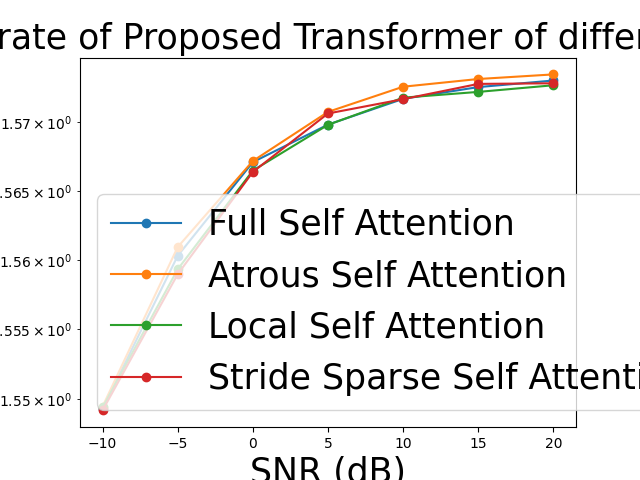
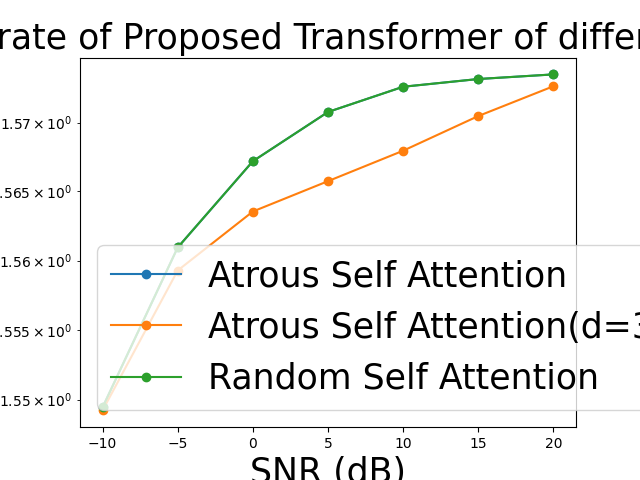
message

diff --git a/SPR-CNN/result-modality-aware-atrous-self-attention.py b/SPR-CNN/result-modality-aware-atrous-self-attention.py
@@ -1,0 +1,100 @@
+import matplotlib.pyplot as plt
+import math
+
+fontsize = 25
+
+####################################################################################################################
+
+# data
+x = [-10, -5, 0, 5, 10, 15, 20]
+
+# Transformers(Encoder * 2 + Decoder * 2, (16 * 32 * 4)), epochs = 200, lr = 0.0001, batch_size = 32
+# 自己寫的 multi-head self attention, atrous_self_attention,
+# encoder ff layer 用 Conv1D, decoder ff layer 用 ffn
+# modality-aware transformers
+y2 = [0.03944879397749901, 0.026776893064379692, 0.01985848695039749, 0.015884367749094963, 0.013839473016560078, 0.013212382793426514, 0.012837452813982964]
+
+# Transformers(Encoder * 2 + Decoder * 2, (16 * 32 * 4)), epochs = 200, lr = 0.0001, batch_size = 32
+# 自己寫的 multi-head self attention, atrous_self_attention, d = 3
+# encoder ff layer 用 Conv1D, decoder ff layer 用 ffn
+# modality-aware transformers
+y5 = [0.03968484327197075, 0.028611933812499046, 0.023897996172308922, 0.02146201953291893, 0.019011519849300385, 0.016211938112974167, 0.01379705686122179]
+
+# Transformers(Encoder * 2 + Decoder * 2, (16 * 32 * 4)), epochs = 200, lr = 0.0001, batch_size = 32
+# 自己寫的 multi-head self attention, random_self_attention
+# encoder ff layer 用 Conv1D, decoder ff layer 用 ffn
+# modality-aware transformers
+y6 = [0.03952145203948021, 0.028553225100040436, 0.02063240297138691, 0.01693073660135269, 0.014729450456798077, 0.014260709285736084, 0.013719967566430569]
+
+# draw
+plt.plot(x, y2, marker='o', label='Atrous Self Attention(d=2)')
+plt.plot(x, y5, marker='o', label='Atrous Self Attention(d=3)')
+plt.plot(x, y6, marker='o', label='Random Self Attention')
+
+
+# set y-axis to log scale
+plt.yscale('log')
+
+# add title and axis labels
+plt.title('Comparison of NMSE of Proposed Transformer of different Sparse Attention', fontsize=fontsize)
+plt.xlabel('SNR (dB)', fontsize=fontsize)
+plt.ylabel('NMSE (log scale)', fontsize=fontsize)
+
+# add legend
+plt.legend(fontsize=fontsize)
+
+# save the plot
+plt.savefig('Comparison of NMSE of Proposed Transformer of different Sparse Attention')
+
+# display the plot
+plt.grid(True)
+plt.show()
+####################################################################################################################
+
+# data
+x = [-10, -5, 0, 5, 10, 15, 20]
+
+# Transformers(Encoder * 2 + Decoder * 2, (16 * 32 * 4)), epochs = 200, lr = 0.0001, batch_size = 32
+# 自己寫的 multi-head self attention, atrous_self_attention,
+# encoder ff layer 用 Conv1D, decoder ff layer 用 ffn
+# modality-aware transformers
+y2 = [15.494442592010083, 15.609491910438882, 15.671919573771865, 15.707657914006779, 15.726012765282944, 15.731636832092104, 15.734998353604407]
+
+# Transformers(Encoder * 2 + Decoder * 2, (16 * 32 * 4)), epochs = 200, lr = 0.0001, batch_size = 32
+# 自己寫的 multi-head self attention, atrous_self_attention, d = 3
+# encoder ff layer 用 Conv1D, decoder ff layer 用 ffn
+# modality-aware transformers
+y5 = [15.49229083432177, 15.592888048108476, 15.635502141705988, 15.65747419928054, 15.679543601852913, 15.704715510298538, 15.726393267161576]
+
+# Transformers(Encoder * 2 + Decoder * 2, (16 * 32 * 4)), epochs = 200, lr = 0.0001, batch_size = 32
+# 自己寫的 multi-head self attention, random_self_attention
+# encoder ff layer 用 Conv1D, decoder ff layer 用 ffn
+# modality-aware transformers
+y6 = [15.494442592010083, 15.609491910438882, 15.671919573771865, 15.707657914006779, 15.726012765282944, 15.731636832092104, 15.734998353604407]
+
+y2 = [value / 10 for value in y2]
+y5 = [value / 10 for value in y5]
+y6 = [value / 10 for value in y6]
+
+# draw
+plt.plot(x, y2, marker='o', label='Atrous Self Attention')
+plt.plot(x, y5, marker='o', label='Atrous Self Attention(d=3)')
+plt.plot(x, y6, marker='o', label='Random Self Attention')
+
+# set y-axis to log scale
+plt.yscale('log')
+
+# add title and axis labels
+plt.title('Comparison of sum rate of Proposed Transformer of different Sparse Attention', fontsize=fontsize)
+plt.xlabel('SNR (dB)', fontsize=fontsize)
+plt.ylabel('sum rate(bandwith = 1) (log scale)', fontsize=fontsize)
+
+# add legend
+plt.legend(fontsize=fontsize)
+
+# save the plot
+plt.savefig('Comparison of sum rate of Proposed Transformer of different Sparse Attention')
+
+# display the plot
+plt.grid(True)
+plt.show()

diff --git a/SPR-CNN/result-modality-transformer.py b/SPR-CNN/result-modality-transformer.py
@@ -186,7 +186,7 @@ plt.plot(x, y3, marker='o', label='Proposed Transformer(time domain + frequency 
 plt.plot(x, y2, marker='o', label='Proposed Transformer')
 
 # set y-axis to log scale
-plt.yscale('log', base=2)
+plt.yscale('log')
 
 # add title and axis labels
 plt.title('Comparison of sum rate of Proposed Transformer and Others', fontsize=fontsize)
@@ -251,11 +251,26 @@ y3 = [0.03952145203948021, 0.028553225100040436, 0.02063240297138691, 0.01693073
 # modality-aware transformers
 y4 = [0.03975171595811844, 0.02894938737154007, 0.020740732550621033, 0.016013476997613907, 0.014851024374365807, 0.013610122725367546, 0.013560788705945015]
 
+# Transformers(Encoder * 2 + Decoder * 2, (16 * 32 * 4)), epochs = 200, lr = 0.0001, batch_size = 32
+# 自己寫的 multi-head self attention, atrous_self_attention, d = 3
+# encoder ff layer 用 Conv1D, decoder ff layer 用 ffn
+# modality-aware transformers
+y5 = [0.03968484327197075, 0.028611933812499046, 0.022718237712979317, 0.021889904513955116, 0.019011519849300385, 0.016211938112974167, 0.01379705686122179]
+
+# Transformers(Encoder * 2 + Decoder * 2, (16 * 32 * 4)), epochs = 200, lr = 0.0001, batch_size = 32
+# 自己寫的 multi-head self attention, random_self_attention
+# encoder ff layer 用 Conv1D, decoder ff layer 用 ffn
+# modality-aware transformers
+y6 = [0.03952145203948021, 0.028553225100040436, 0.02063240297138691, 0.01693073660135269, 0.014729450456798077, 0.014260709285736084, 0.013719967566430569]
+
 # draw
 plt.plot(x, y1, marker='o', label='Full Self Attention')
-plt.plot(x, y2, marker='o', label='Atrous Self Attention')
+plt.plot(x, y2, marker='o', label='Atrous Self Attention(d=2)')
 plt.plot(x, y3, marker='o', label='Local Self Attention')
 plt.plot(x, y4, marker='o', label='Stride Sparse Self Attention')
+# plt.plot(x, y5, marker='o', label='Atrous Self Attention(d=3)')
+# plt.plot(x, y6, marker='o', label='Random Self Attention')
+
 
 # set y-axis to log scale
 plt.yscale('log')
@@ -303,16 +318,32 @@ y3 = [15.493780284204943, 15.593419636118835, 15.664949597637182, 15.69825676909
 # modality-aware transformers
 y4 = [15.491681067760004, 15.589832575098683, 15.663973687062441, 15.706498242577116, 15.716936093266758, 15.728069976733451, 15.728512427221728]
 
+# Transformers(Encoder * 2 + Decoder * 2, (16 * 32 * 4)), epochs = 200, lr = 0.0001, batch_size = 32
+# 自己寫的 multi-head self attention, atrous_self_attention, d = 3
+# encoder ff layer 用 Conv1D, decoder ff layer 用 ffn
+# modality-aware transformers
+y5 = [15.49229083432177, 15.592888048108476, 15.646147580348586, 15.653617242610963, 15.679543601852913, 15.704715510298538, 15.726393267161576]
+
+# Transformers(Encoder * 2 + Decoder * 2, (16 * 32 * 4)), epochs = 200, lr = 0.0001, batch_size = 32
+# 自己寫的 multi-head self attention, random_self_attention
+# encoder ff layer 用 Conv1D, decoder ff layer 用 ffn
+# modality-aware transformers
+y6 = [15.494442592010083, 15.609491910438882, 15.671919573771865, 15.707657914006779, 15.726012765282944, 15.731636832092104, 15.734998353604407]
+
 y1 = [value / 10 for value in y1]
 y2 = [value / 10 for value in y2]
 y3 = [value / 10 for value in y3]
 y4 = [value / 10 for value in y4]
+y5 = [value / 10 for value in y5]
+y6 = [value / 10 for value in y6]
 
 # draw
 plt.plot(x, y1, marker='o', label='Full Self Attention')
 plt.plot(x, y2, marker='o', label='Atrous Self Attention')
 plt.plot(x, y3, marker='o', label='Local Self Attention')
 plt.plot(x, y4, marker='o', label='Stride Sparse Self Attention')
+# plt.plot(x, y5, marker='o', label='Atrous Self Attention(d=3)')
+# plt.plot(x, y6, marker='o', label='Random Self Attention')
 
 # set y-axis to log scale
 plt.yscale('log')

diff --git a/SPR-CNN/sparse_attention.py b/SPR-CNN/sparse_attention.py
@@ -77,38 +77,34 @@ class Multi_Head_Attention(tf.keras.layers.Layer):
 
         # Initialize the total_output
         total_output = tf.zeros_like(inputs)
-
         # Process each head iteratively
         for i in range(self.num_heads):
 
             Q = tf.matmul(inputs, self.Wq[i])  # (B, L, d_k)
-
             if enc_output is not None:
                 K = tf.matmul(enc_output, self.Wk[i])  # (B, L, d_k)
                 V = tf.matmul(enc_output, self.Wv[i])  # (B, L, d_v)
             else:
                 K = tf.matmul(inputs, self.Wk[i])  # (B, L, d_k)
                 V = tf.matmul(inputs, self.Wv[i])  # (B, L, d_v)
-
             # Scaled dot-product attention
             scores = tf.matmul(Q, K, transpose_b=True) / tf.math.sqrt(tf.cast(self.d_k, tf.float32))  # (B, L, L)
-            
             # Apply masking if provided
             if mask is not None:
                 scores = scores * mask - tf.constant(1e10, dtype=tf.float32) * (1 - mask)
             
             # Apply sparse attention mask
-            # mask = atrous_self_attention_mask(N = seq_len, dilation_rate = 2)
+            # mask = atrous_self_attention_mask(N = seq_len, dilation_rate = 3)
+            mask = random_self_attention_mask(N = seq_len, Probability = 0.5)
             # mask = local_self_attention_mask(N = seq_len, window_size = 2)
             # mask = stride_sparse_self_attention_mask(N = seq_len, local_range = 2, stride = 2)
-            # scores = scores * mask - tf.constant(1e10, dtype=tf.float32) * (1 - mask)
+            scores = scores * mask - tf.constant(1e10, dtype=tf.float32) * (1 - mask)
 
             # Apply softmax for attention weights
             attention_weights = tf.nn.softmax(scores, axis=-1)  # (B, L, L)
 
             # Context vector (weighted sum of values)
             output = tf.matmul(attention_weights, V)  # (B, L, d_v)
-            
             # Sum up the outputs of all heads
             total_output += output
         
@@ -171,10 +167,11 @@ class Inter_Modal_Multi_Head_Attention(tf.keras.layers.Layer):
                 scores = scores * mask - tf.constant(1e10, dtype=tf.float32) * (1 - mask)
             
             # Apply sparse attention mask
-            # mask = atrous_self_attention_mask(N = seq_len, dilation_rate = 2)
+            # mask = atrous_self_attention_mask(N = seq_len, dilation_rate = 3)
+            mask = random_self_attention_mask(N = seq_len, Probability = 0.5)
             # mask = local_self_attention_mask(N = seq_len, window_size = 2)
             # mask = stride_sparse_self_attention_mask(N = seq_len, local_range = 2, stride = 2)
-            # scores = scores * mask - tf.constant(1e10, dtype=tf.float32) * (1 - mask)
+            scores = scores * mask - tf.constant(1e10, dtype=tf.float32) * (1 - mask)
 
             # Apply softmax for attention weights
             attention_weights = tf.nn.softmax(scores, axis=-1)  # (B, L, L)
@@ -223,6 +220,17 @@ def stride_sparse_self_attention_mask(N, local_range, stride):
         for j in range(N):
             if abs(j - i) <= local_range or abs(j - i) % stride == 0:
                 mask[i, j] = 1
+    return mask
+
+def random_self_attention_mask(N, Probability):
+    # [[1. 0. 1. 0. 1. 0.]
+    #  [0. 1. 0. 1. 0. 1.]
+    #  [1. 0. 1. 0. 1. 0.]
+    #  [0. 1. 0. 1. 0. 1.]
+    #  [1. 0. 1. 0. 1. 0.]
+    #  [0. 1. 0. 1. 0. 1.]]
+    mask = np.random.rand(N, N)
+    mask = (mask >= Probability).astype(int)
     return mask
 
 class FFT(tf.keras.layers.Layer):

diff --git a/SPR-CNN/modality-aware.py b/SPR-CNN/modality-aware.py
@@ -374,14 +374,14 @@ for _ in range(encoder_block_num):  # Repeat the encoder encoder_block_num times
     x_fre = LayerNormalization(epsilon=1e-6)(x_fre)
 
     # Feed Forward Layer Time
-    ff_output_encoder_1 = Dense(units=key_dim_num, activation='relu')(x_time)
-    # ff_output_encoder_1 = Conv1D(filters=key_dim_num, kernel_size=3, padding='same', activation='relu')(x_time)
+    # ff_output_encoder_1 = Dense(units=key_dim_num, activation='relu')(x_time)
+    ff_output_encoder_1 = Conv1D(filters=key_dim_num, kernel_size=3, padding='same', activation='relu')(x_time)
     x_time = Add()([x_time, ff_output_encoder_1])
     x_time = LayerNormalization(epsilon=1e-6)(x_time)
 
     # Feed Forward Layer Time
-    ff_output_encoder_2 = Dense(units=key_dim_num, activation='relu')(x_fre)
-    # ff_output_encoder_2 = Conv1D(filters=key_dim_num, kernel_size=3, padding='same', activation='relu')(x_fre)
+    # ff_output_encoder_2 = Dense(units=key_dim_num, activation='relu')(x_fre)
+    ff_output_encoder_2 = Conv1D(filters=key_dim_num, kernel_size=3, padding='same', activation='relu')(x_fre)
     x_fre = Add()([x_fre, ff_output_encoder_2])
     x_fre = LayerNormalization(epsilon=1e-6)(x_fre)
 

diff --git a/SPR-CNN/loop.py b/SPR-CNN/loop.py
@@ -14,7 +14,7 @@ with open('output.txt', 'a') as f:
     # 恢复原始的标准输出
     sys.stdout = original_stdout
 # 要执行的命令的基础部分
-base_command = "python3 main.py"
+base_command = "python3 modality-aware.py"
 
 # 要执行的 SNR_dB 参数的范围
 SNR_dB_range = range(-10, 1001, 5)
@@ -22,7 +22,7 @@ SNR_dB_range = range(-10, 1001, 5)
 # 遍历 SNR_dB 参数的范围
 for SNR_dB in SNR_dB_range:
     # 构建完整的命令字符串
-    command = f"{base_command} -5"
+    command = f"{base_command} 15"
     
     # 执行命令
     result = subprocess.run(command, shell=True)
